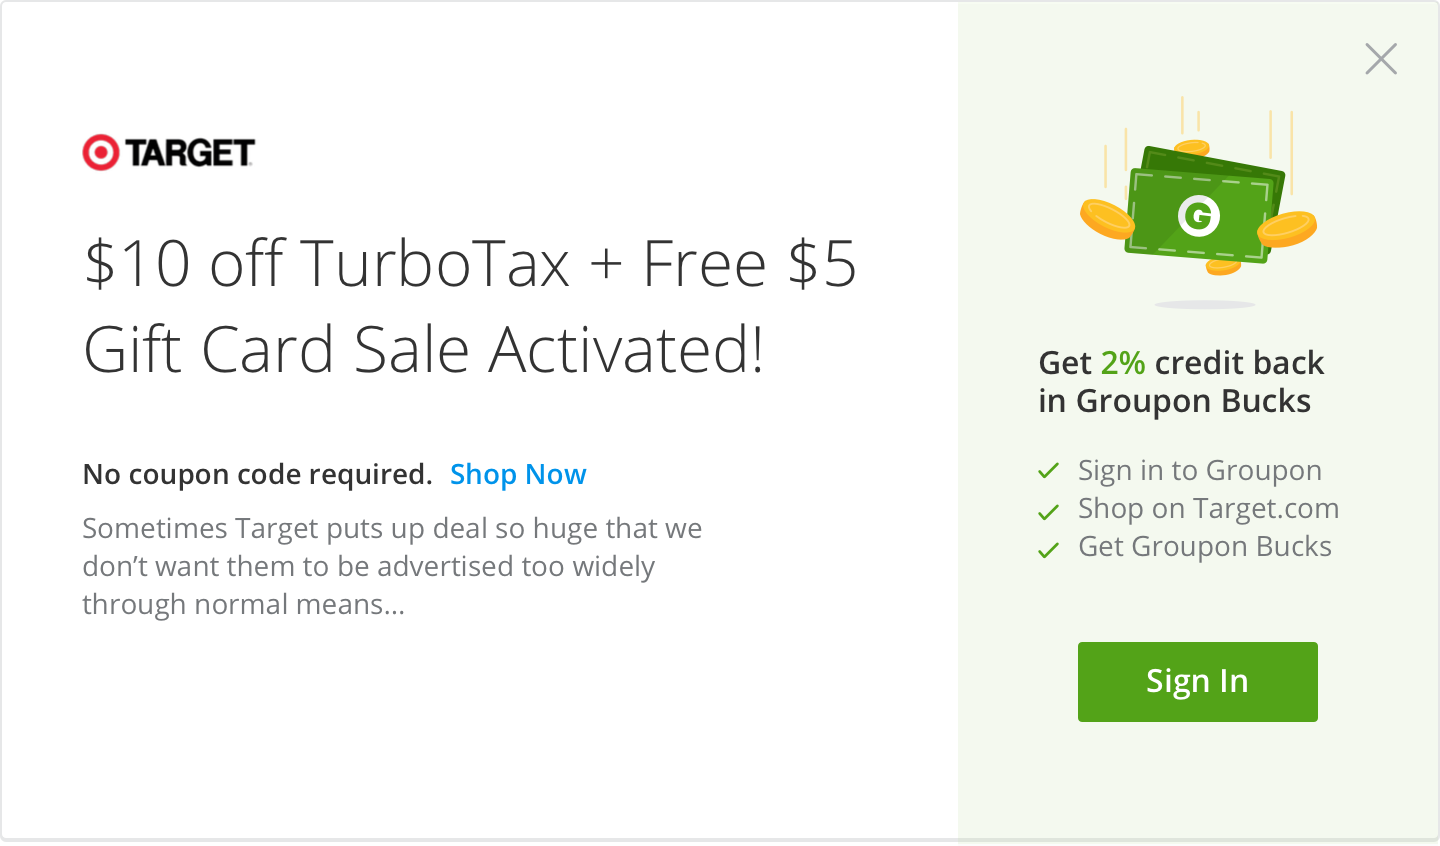
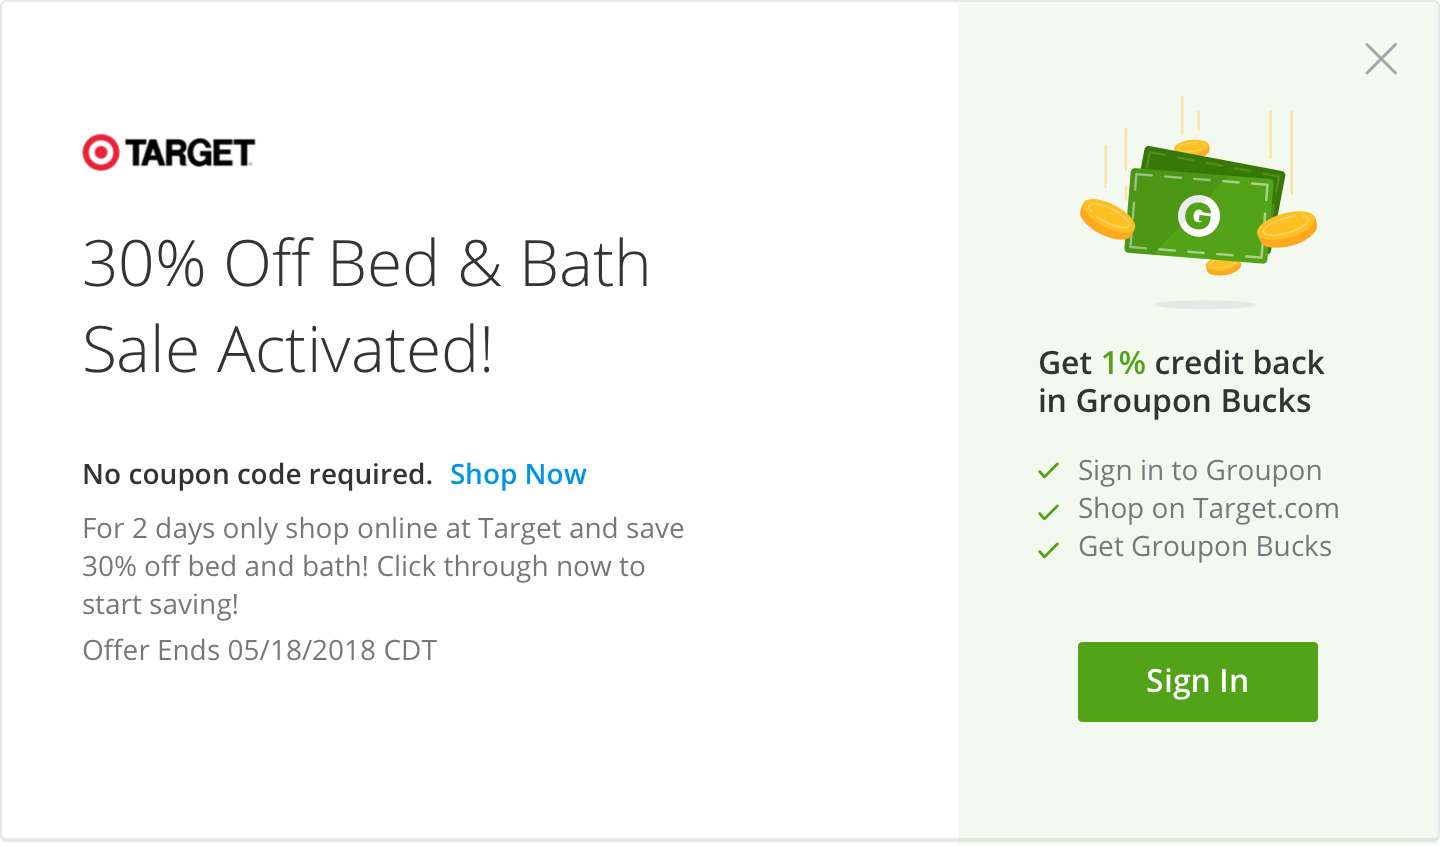
changes
added favcon, updated modal & new offer, updated hotspot position

Changed region(s): [[0.0625, 0.6147, 0.5, 0.7991], [0.0625, 0.2766, 0.5938, 0.3381], [0.0625, 0.3688, 0.5312, 0.461]]

diff --git a/index.html b/index.html
@@ -6,6 +6,7 @@
     <meta name="viewport" content="width=device-width, initial-scale=1.0">
     <link href="https://cdnjs.cloudflare.com/ajax/libs/normalize/3.0.3/normalize.min.css" rel="stylesheet"/>
     <link rel="stylesheet" type="text/css" href="css/styles.css">
+    <link rel="icon" type="image/png" sizes="16x16" href="images/favicon.ico">
 </head>
 <body>
 	<img src="images/full_merchantpge.png" width="1440">

diff --git a/index2.html b/index2.html
@@ -6,6 +6,7 @@
     <meta name="viewport" content="width=device-width, initial-scale=1.0">
     <link href="https://cdnjs.cloudflare.com/ajax/libs/normalize/3.0.3/normalize.min.css" rel="stylesheet"/>
     <link rel="stylesheet" type="text/css" href="css/styles.css">
+    <link rel="icon" type="image/png" sizes="16x16" href="images/favicon.ico">
 </head>
 <body>
 	<img src="images/full_merchantpge.png" width="1440">

diff --git a/css/styles.css b/css/styles.css
@@ -15,7 +15,7 @@ img {
   opacity: 0;
   background-color: red;
   position: absolute;
-  top: 838px;
+  top: 490px;
   left: 1040px;
   z-index: 3;
   cursor: pointer; }
@@ -26,7 +26,7 @@ img {
   padding: 1rem;
   margin: 0 auto;
   position: fixed;
-  top: 170px;
+  top: 120px;
   left: 361px;
   z-index: 5; }
 

diff --git a/sass/styles.sass b/sass/styles.sass
@@ -16,7 +16,7 @@ img
 	opacity: 0
 	background-color: red
 	position: absolute
-	top: 838px	
+	top: 490px	
 	left: 1040px
 	z-index: 3
 	cursor: pointer
@@ -27,7 +27,7 @@ img
 	padding: 1rem
 	margin: 0 auto
 	position: fixed
-	top: 170px
+	top: 120px
 	left: 361px
 	z-index: 5
 
